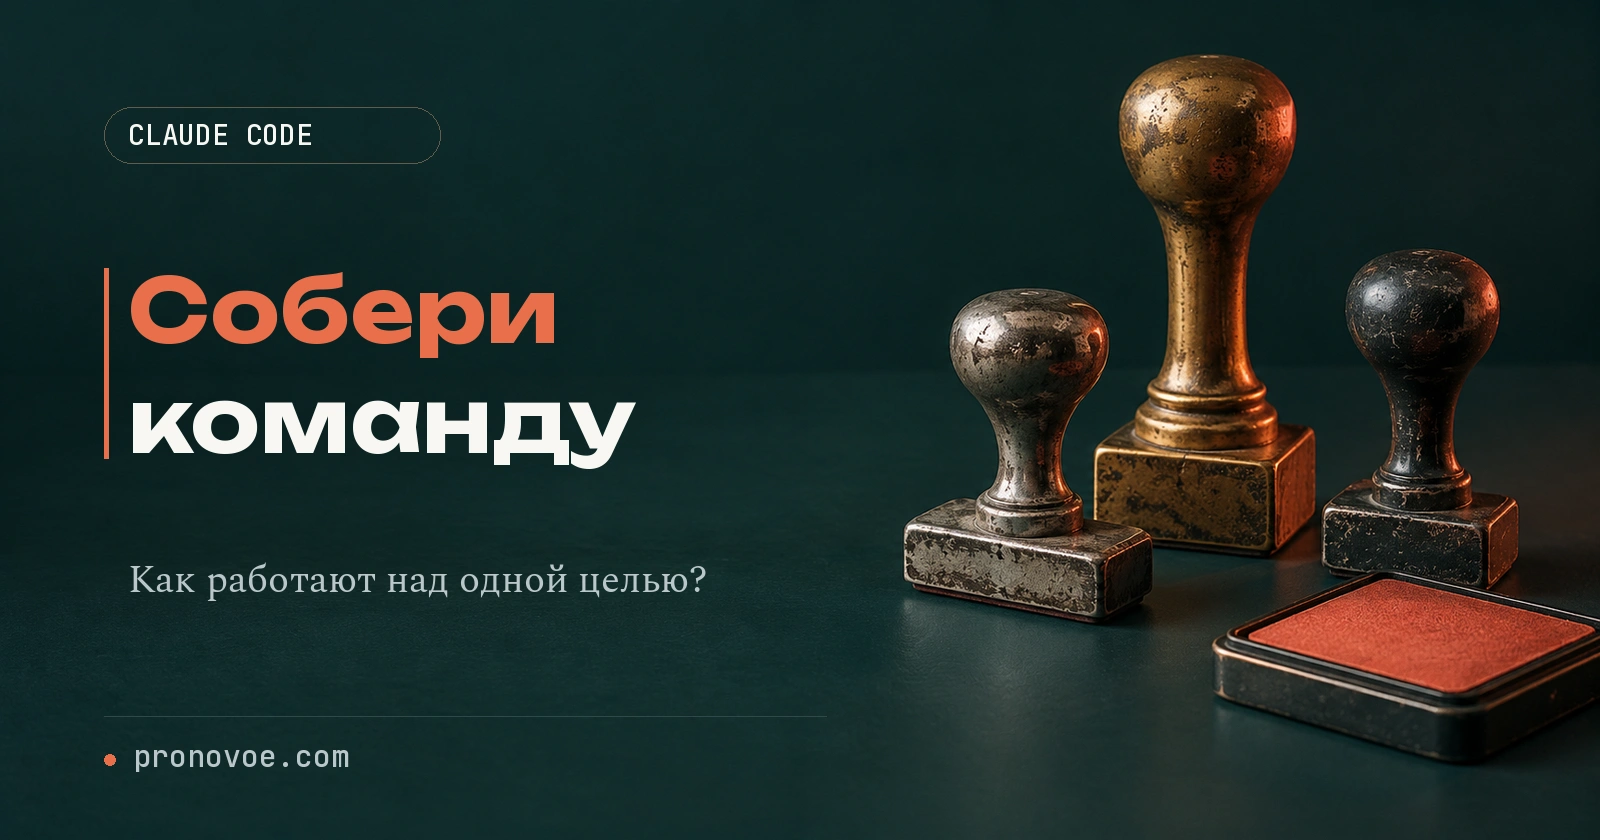
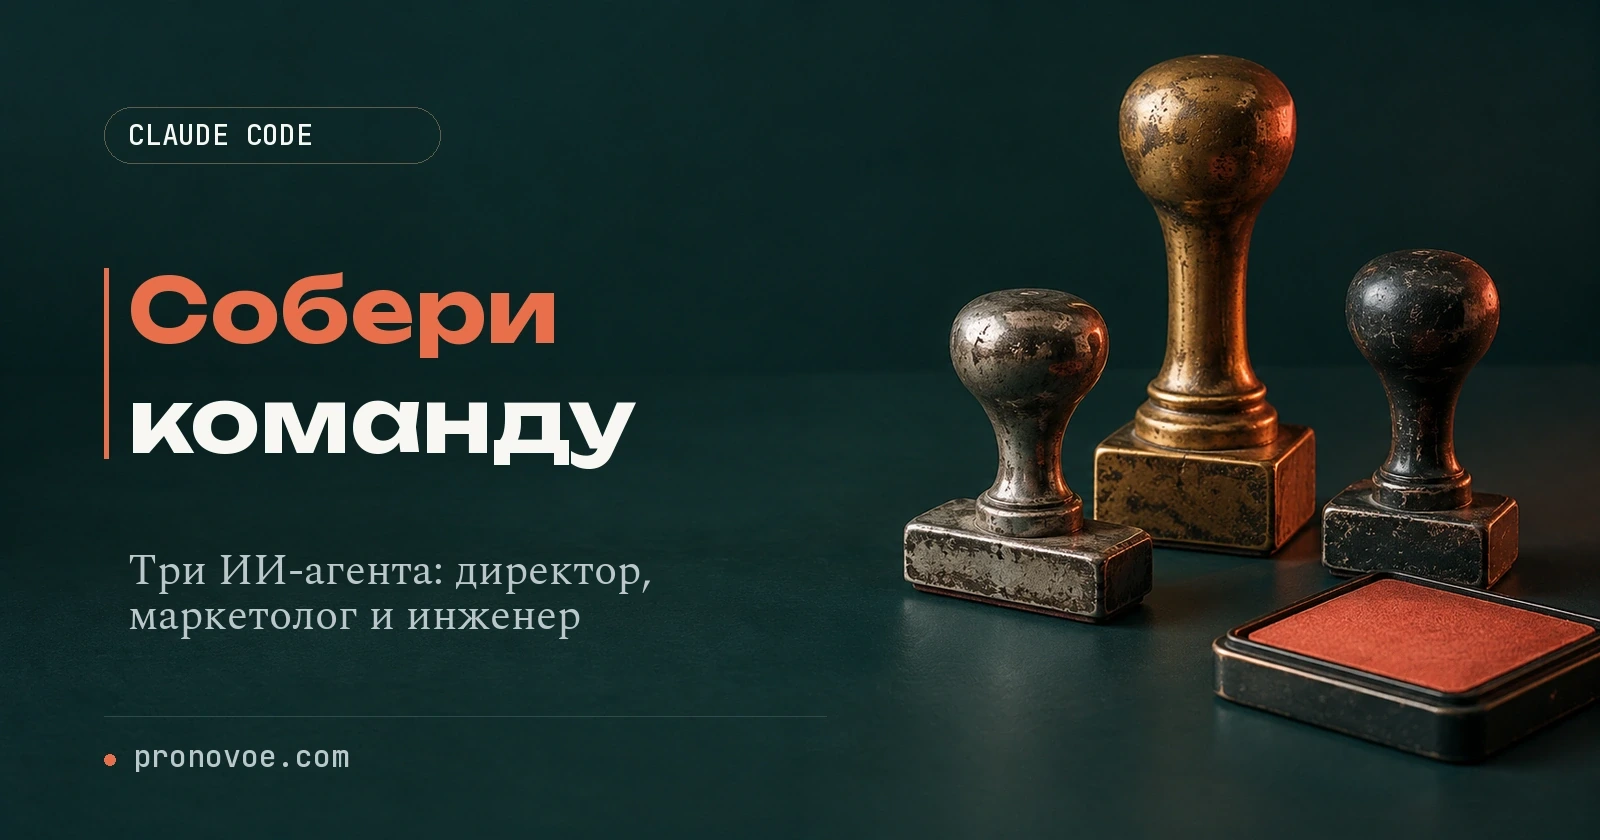
ШТАТ: понятный подзаголовок обложки, «нанять» в кавычках, как устроено и чем отличается от оркестрации в Claude Code

Changed region(s): [[0.0625, 0.65, 0.4375, 0.7738]]

diff --git a/claude-ai/shtat-agentov-paperclip/index.html b/claude-ai/shtat-agentov-paperclip/index.html
@@ -256,7 +256,7 @@ figure + .result, figure + p, figure + ol { margin-top: 20px }
 <a class="press-button" data-partner href="https://theivansergeev.com/ailager/?gcpc=16fff">На ИИ-Лагерь</a></div></div></div></header>
 <div class="page-shell"><nav class="toc" aria-label="Содержание"><p class="toc-label">Содержание</p><a href="#podgotovka">Что нужно до начала</a>
 <a href="#ustanovka">Шаг 1. Запусти Paperclip</a>
-<a href="#direktor">Шаг 2. Назови организацию и найми директора</a>
+<a href="#direktor">Шаг 2. Назови организацию и «найми» директора</a>
 <a href="#byudzhet">Шаг 3. Включи одобрение найма и ограничь запуски</a>
 <a href="#tsel">Шаг 4. Дай директору одну цель</a>
 <a href="#plan">Шаг 5. Одобри план и команду</a>
@@ -271,10 +271,12 @@ figure + .result, figure + p, figure + ol { margin-top: 20px }
 <p class="uroven-metka blue" style="display:inline-block;margin:16px 0 0;padding:5px 12px;border-radius:999px;background:#E4EDF5;color:#2C6FA6;font:700 13px/1.3 -apple-system,BlinkMacSystemFont,&quot;Segoe UI&quot;,Arial,sans-serif">Средний уровень</p>
 <p class="lead">Один Claude Code тянет одну задачу. Нужно что-то побольше, и ты вручную раскладываешь работу по чатам, переносишь текст из одного окна в другое и следишь, чтобы ничего не потерялось. <b>Paperclip забирает эту возню на себя:</b> ты ставишь одну цель, а штат ИИ-агентов - директор, маркетолог и инженер - делит её на задачи и передаёт работу друг другу.</p>
 <p><a href="https://github.com/paperclipai/paperclip">Paperclip</a> - бесплатное открытое приложение. Оно ставится на твой компьютер и открывается в браузере. Внутри всё как в маленьком офисе: кто кому подчиняется, задачи с ответственными, планы на одобрение и бюджет. Работу делает твой Claude Code, а Paperclip раздаёт поручения и записывает, кто что сделал.</p>
-<p>Ниже по шагам: как поставить Paperclip, нанять директора, ограничить расходы и дать команде первую цель. А в последнем шаге - как понять, что агенты правда работали вместе, а не каждый сам по себе в своём окне.</p><p class="meta">АКТУАЛЬНО НА 6 ОКТЯБРЯ 2026</p></header>
+<p>Как это устроено. «Нанять» агента здесь значит завести в Paperclip карточку: имя, роль, кому подчиняется. Когда агенту назначили задачу, Paperclip сам запускает на твоём компьютере Claude Code в фоне, без окна чата. Тот читает задачу, делает работу, сохраняет результат в задачу и выключается. Тебе не нужно открывать чаты и переносить текст: задачи между собой передают сами агенты.</p>
+<p>Похожую раздачу работы можно включить и в самом Claude Code, промптом или скиллом. Тогда главный чат сам запускает помощников, но живут они, пока открыт этот чат. В Paperclip команда постоянная: у каждого агента своя роль, у задач доска и история, а важные решения ждут твоего одобрения.</p>
+<p>Ниже по шагам: как поставить Paperclip, «нанять» директора, ограничить расходы и дать команде первую цель. А в последнем шаге - как понять, что агенты правда работали вместе, а не каждый сам по себе в своём окне.</p><p class="meta">АКТУАЛЬНО НА 6 ОКТЯБРЯ 2026</p></header>
 <details class="mobile-toc"><summary>Содержание статьи</summary><nav aria-label="Содержание на телефоне"><a href="#podgotovka">Что нужно до начала</a>
 <a href="#ustanovka">Шаг 1. Запусти Paperclip</a>
-<a href="#direktor">Шаг 2. Назови организацию и найми директора</a>
+<a href="#direktor">Шаг 2. Назови организацию и «найми» директора</a>
 <a href="#byudzhet">Шаг 3. Включи одобрение найма и ограничь запуски</a>
 <a href="#tsel">Шаг 4. Дай директору одну цель</a>
 <a href="#plan">Шаг 5. Одобри план и команду</a>
@@ -309,7 +311,7 @@ figure + .result, figure + p, figure + ol { margin-top: 20px }
 </section>
 
 <section class="content-section" id="direktor">
-<h2>Шаг 2. Назови организацию и найми директора</h2>
+<h2>Шаг 2. Назови организацию и «найми» директора</h2>
 <p>Дальше Paperclip покажет три экрана подряд:</p>
 <ol>
 <li><b>What is the name of your organization?</b> («Как называется организация?»). Впиши любое название, например «Первая команда», и нажми Continue («Продолжить»). Организация - общее место для агентов, целей и задач.</li>
